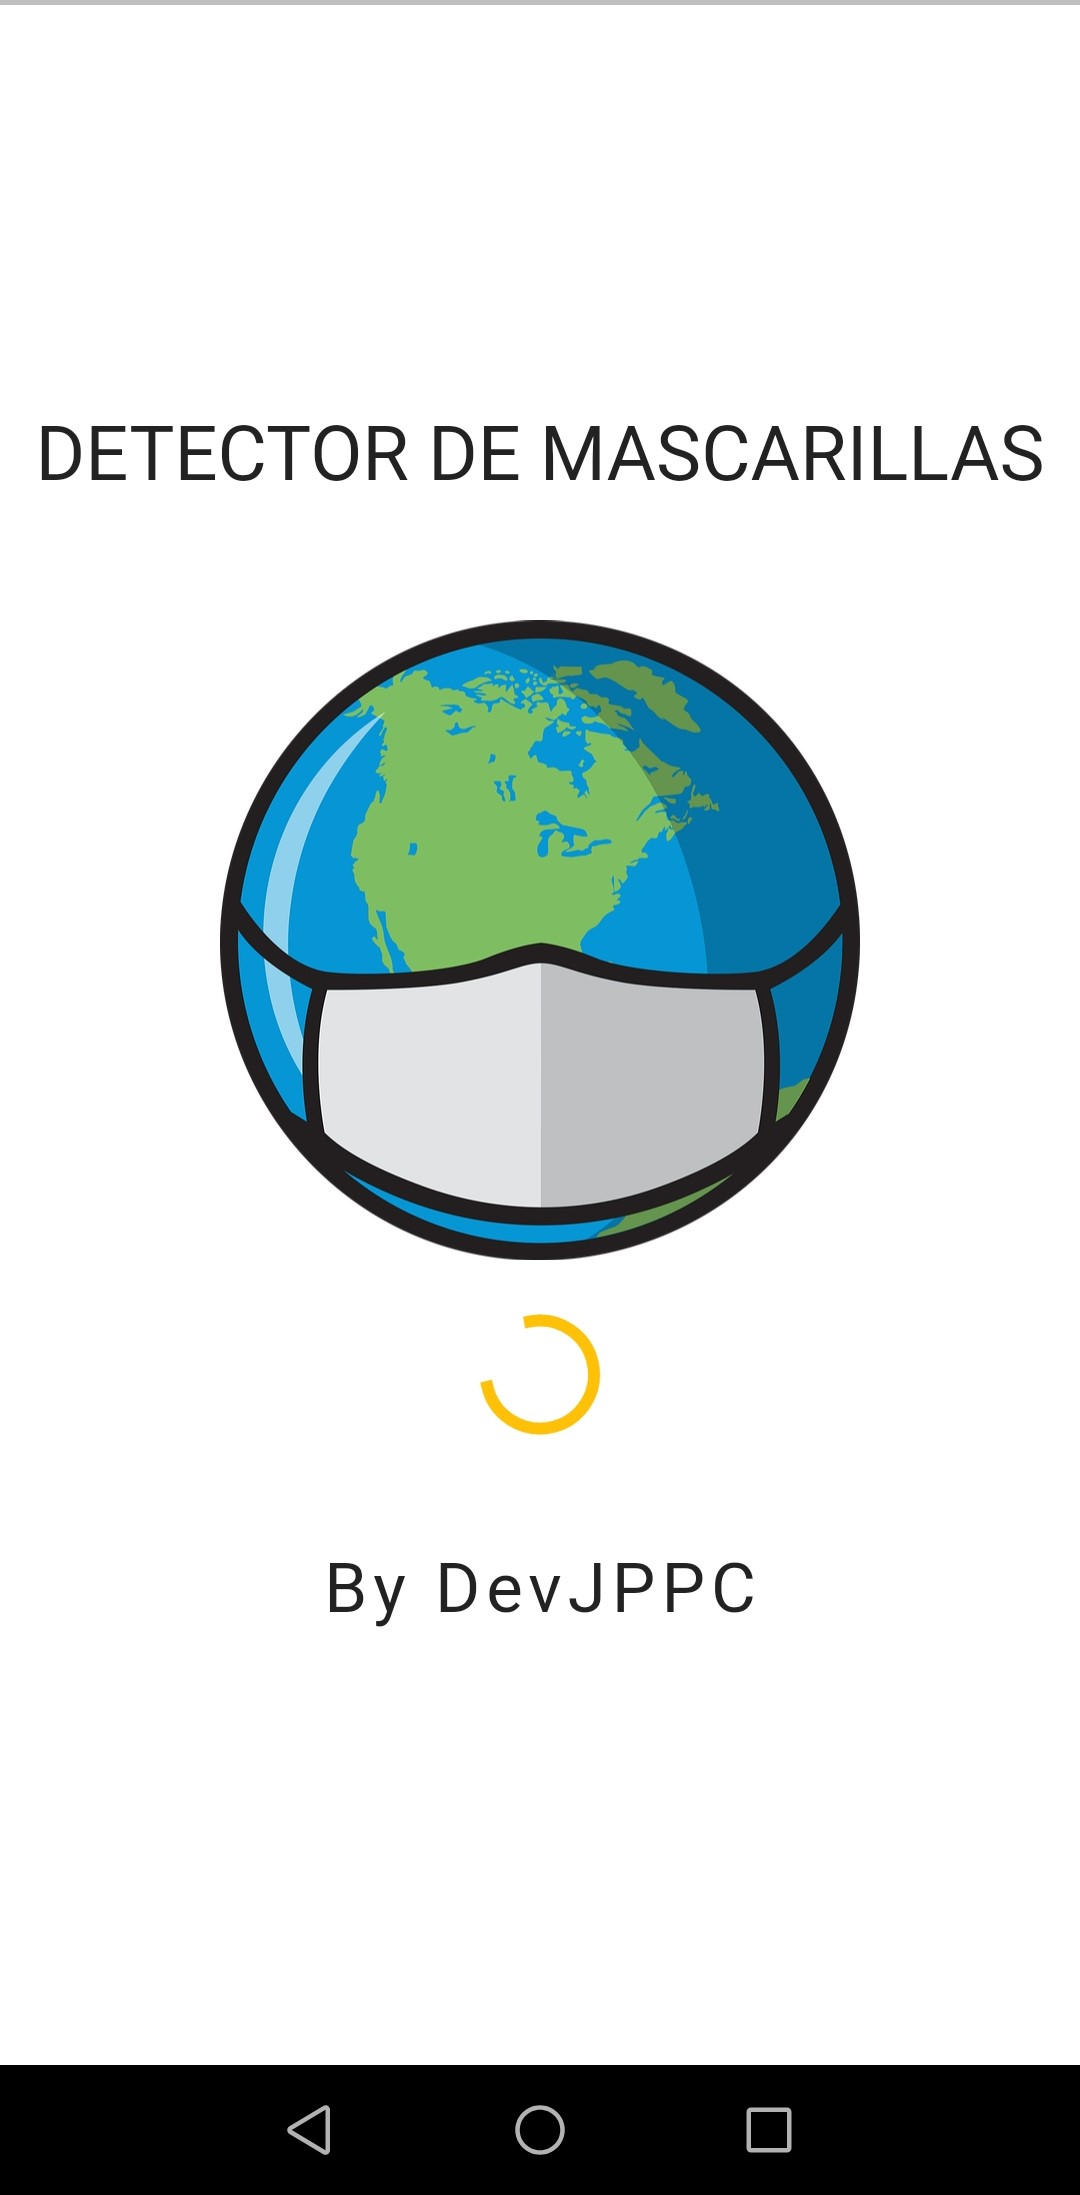
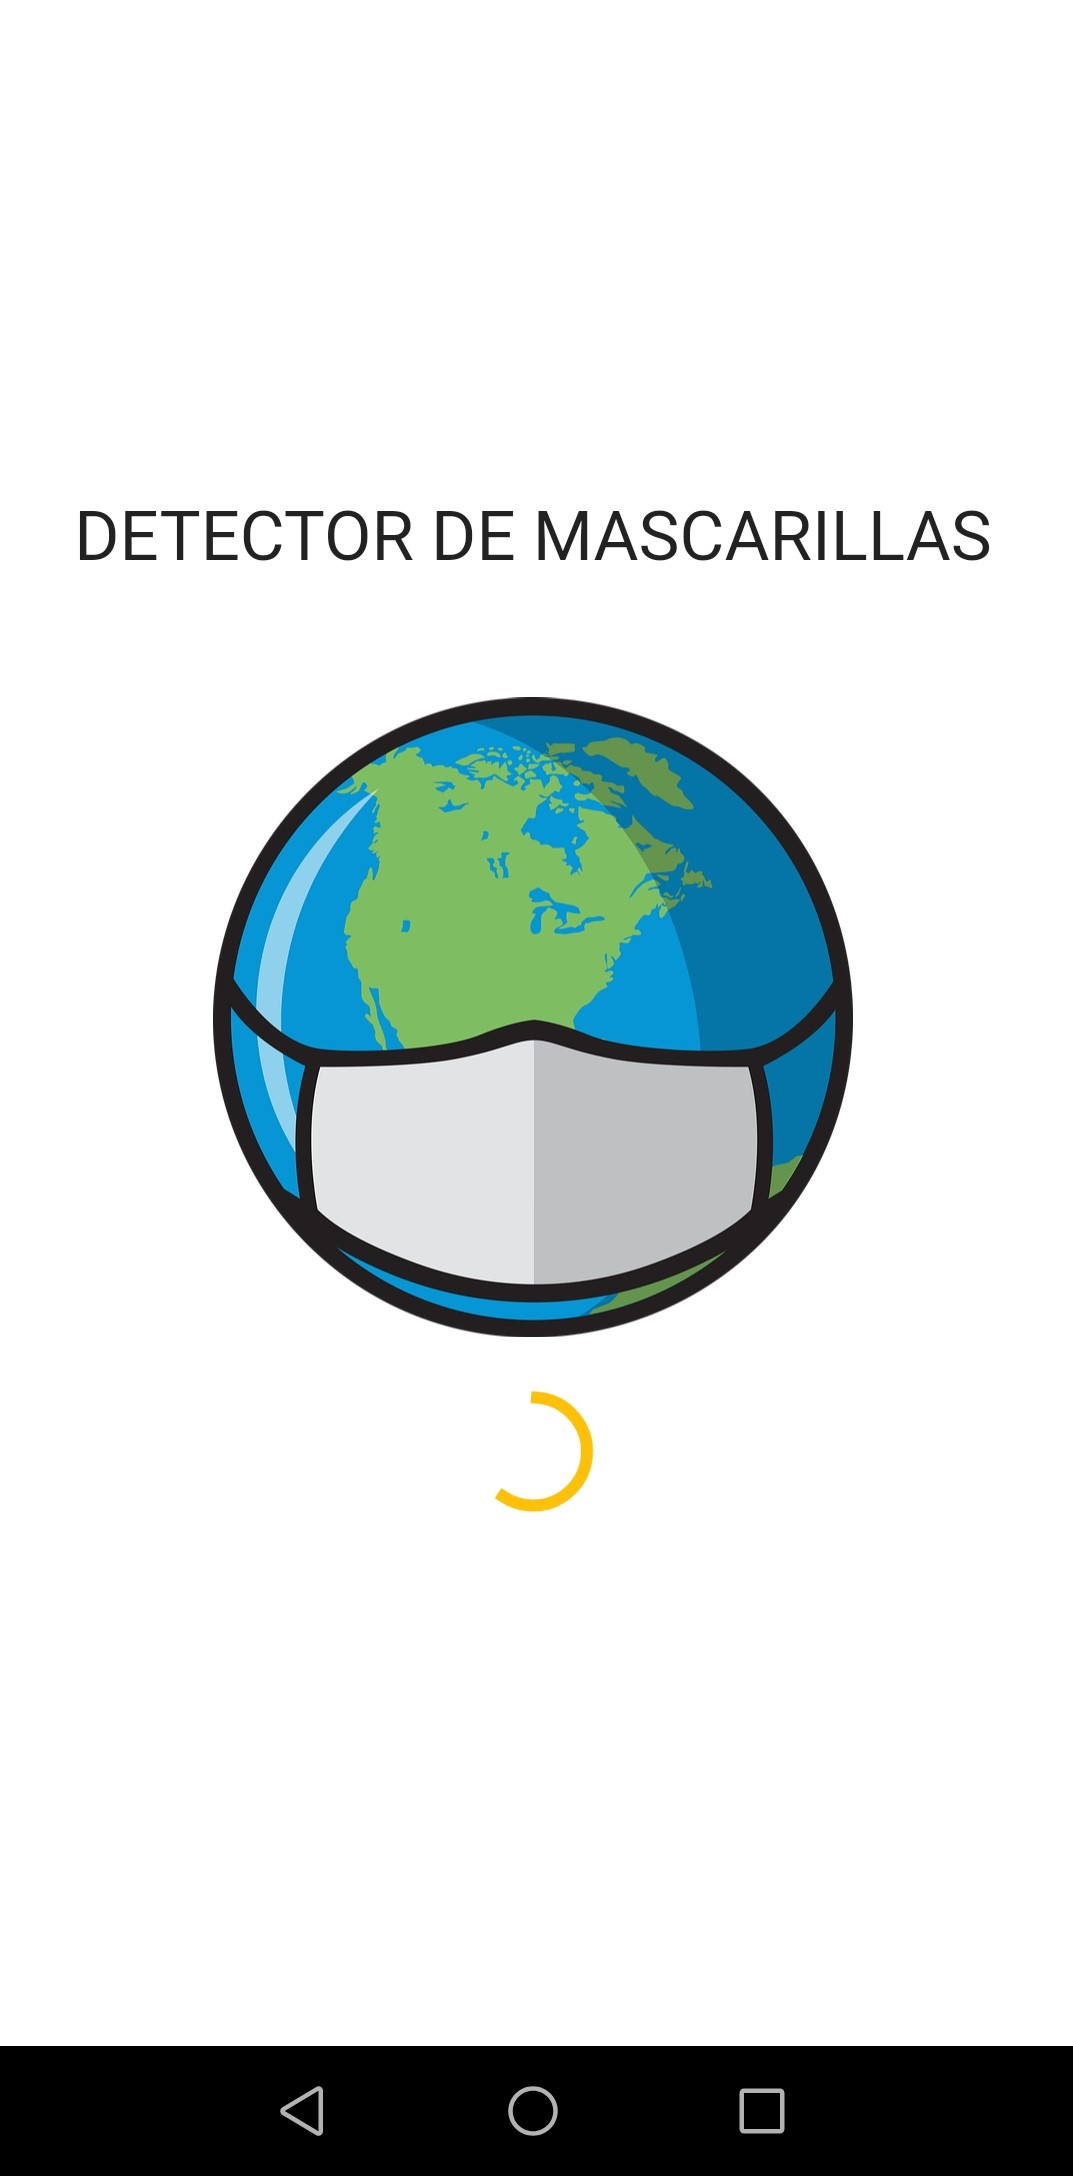
Update project

diff --git a/lib/splachpage.dart b/lib/splachpage.dart
@@ -17,7 +17,7 @@ class Splashpage extends StatelessWidget {
               padding: const EdgeInsets.fromLTRB(10, 40, 10, 40),
               child: const Text(
                 "DETECTOR DE MASCARILLAS",
-                style: TextStyle(fontSize: 22),
+                style: TextStyle(fontSize: 20),
                 textAlign: TextAlign.center,
               ),
             ),
@@ -25,14 +25,6 @@ class Splashpage extends StatelessWidget {
             Container(
               padding: const EdgeInsets.fromLTRB(20, 20, 20, 20),
               child: const CircularProgressIndicator(color: Colors.amber),
-            ),
-            Container(
-              padding: const EdgeInsets.fromLTRB(20, 20, 20, 20),
-              child: const Text(
-                "By DevJPPC",
-                style: TextStyle(fontSize: 20, letterSpacing: 2),
-                textAlign: TextAlign.center,
-              ),
             ),
           ],
         ),

diff --git a/README.md b/README.md
@@ -8,10 +8,17 @@ Model developed and trained with https://teachablemachine.withgoogle.com/
 
 This project is a starting point for a Flutter application.
 
-## Screenshot
-<p >
+## Screenshots
+<p>
+  SplachScreen
   <img src="Screenshot_0.jpg" width="246" height="455">
+</p>
+<p>
+  Screen test 1  
   <img src="Screenshot_1.jpg" width="246" height="455">
+</p>
+<p>
+  Screen test 2
   <img src="Screenshot_2.jpg" width="246" height="455">
 </p>
 
